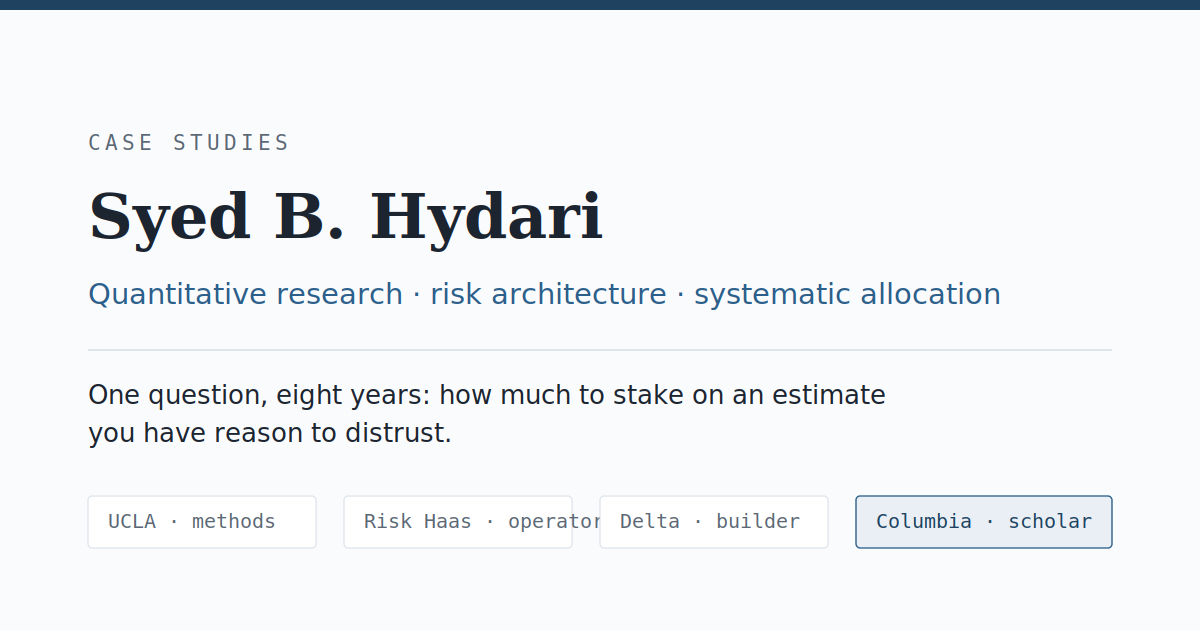
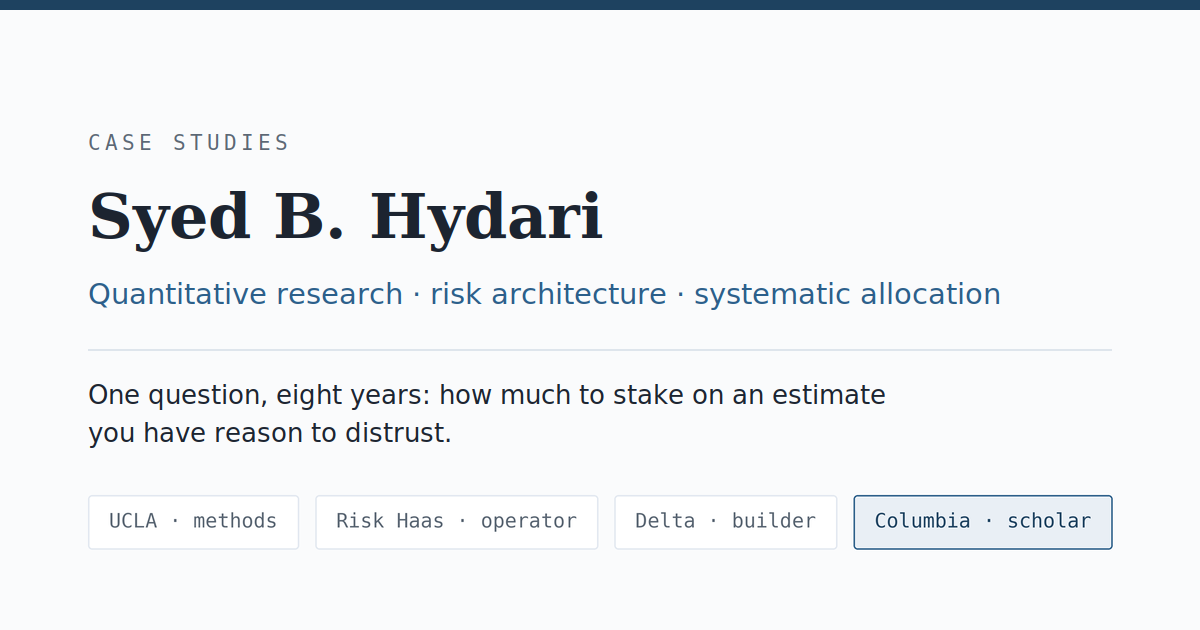
Label synthesis graphic as Papers 1 and 2; fix chip overflow in og-card
Claude-Session: https://claude.ai/code/session_019mBUCLxFgnSVHCjCbG4EeR

Changed region(s): [[0.7092, 0.7841, 0.925, 0.8746], [0.2775, 0.8143, 0.6783, 0.8444], [0.0925, 0.8143, 0.2467, 0.8444]]

diff --git a/index.html b/index.html
@@ -326,8 +326,8 @@
     </figure>
 
     <figure class="viz">
-      <svg viewBox="0 0 900 214" role="img" aria-label="What the two papers add up to: keep full-window means, since conditioned means had higher forecast loss in 12 of 12 comparisons; average the covariance across states, since state separation ran 1.7 to 2.1 times its null; let the regime inform the exposure, as in Paper 1. Testing the three together is the program's next step, not yet a result.">
-        <text x="20" y="26" class="svg-title">What the two papers add up to</text>
+      <svg viewBox="0 0 900 214" role="img" aria-label="What Papers 1 and 2 add up to: keep full-window means, since conditioned means had higher forecast loss in 12 of 12 comparisons; average the covariance across states, since state separation ran 1.7 to 2.1 times its null; let the regime inform the exposure, as in Paper 1. Testing the three together is the program's next step, not yet a result.">
+        <text x="20" y="26" class="svg-title">What Papers 1 and 2 add up to</text>
         <rect x="20" y="44" width="276" height="100" rx="5" fill="#fff" stroke="#2C5F8A" stroke-width="1.4"/>
         <text x="38" y="70" class="svg-label-ink">Means</text>
         <text x="38" y="90" class="svg-label-steel-sm">keep the full window</text>
@@ -346,7 +346,7 @@
         <rect x="20" y="162" width="860" height="38" rx="5" fill="none" stroke="#5B6774" stroke-width="1.2" stroke-dasharray="5 4"/>
         <text x="38" y="186" class="svg-label">Next test: full-window means, averaged risk, and regime-informed exposure together — open, not yet a result.</text>
       </svg>
-      <figcaption>The program's working answer, component by component, from the two papers' results. Forecast and stability rankings differed across estimators, so the combination still has to be tested as a whole.</figcaption>
+      <figcaption>The program's working answer, component by component, from the results of Papers 1 and 2. Forecast and stability rankings differed across estimators, so the combination still has to be tested as a whole.</figcaption>
     </figure>
 
     <div class="chips">
